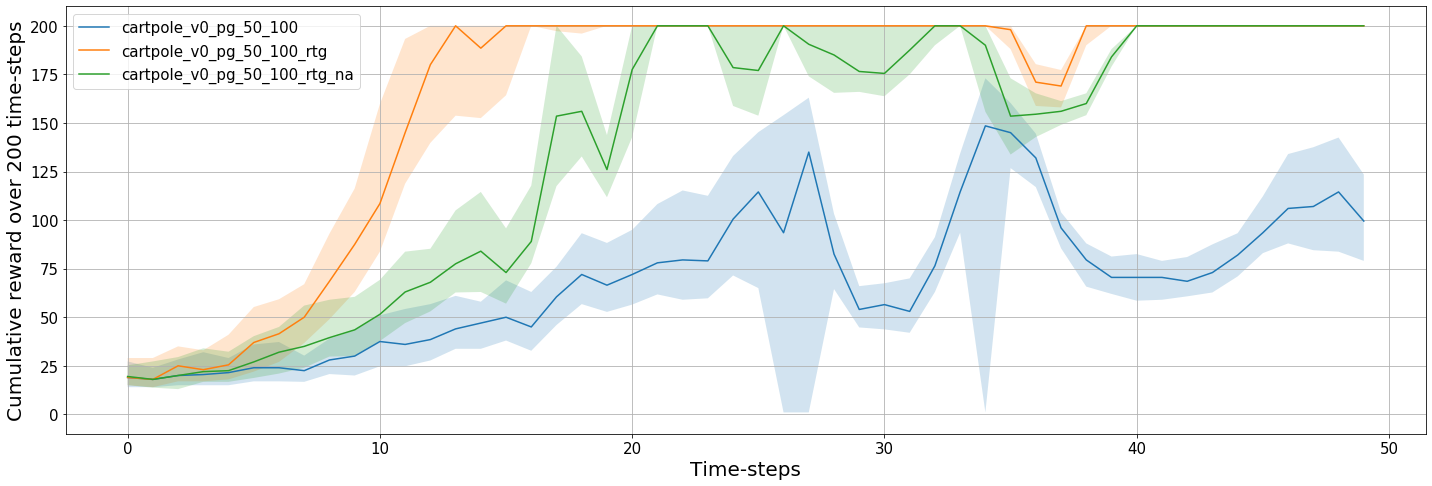
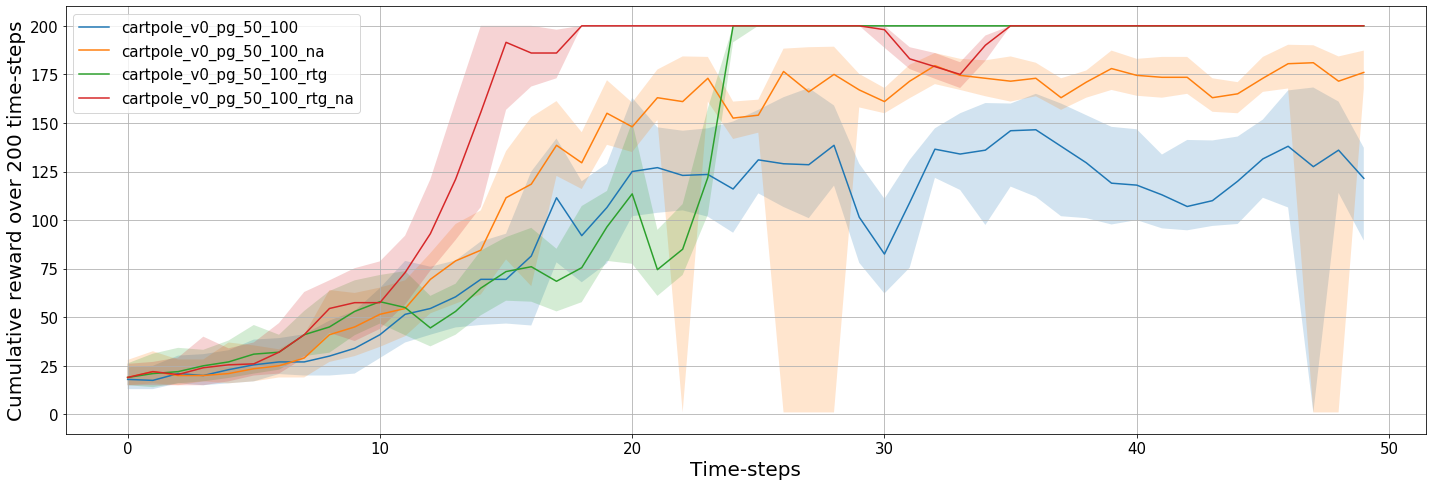
changed figures to pg

diff --git a/_posts/policy_gradient/2020-06-23-policy-gradient.md b/_posts/policy_gradient/2020-06-23-policy-gradient.md
@@ -124,7 +124,7 @@ Notes:
     - Compute $$\nabla_{\theta}J(\theta)$$ by using its MC gradient estimate rule in the table above.
     - $$\theta_{\text{new}} \leftarrow \theta_{\text{old}} + \alpha \nabla_{\theta}J(\theta)$$. (A more advanced optimizer can be used in practice.)
 
-## Variants of vanilla REINFORCE
+## Variants of vanilla policy gradient
 
 Reference: answer by Jerry Liu: [Why does the policy gradient method have a high variance?](https://www.quora.com/Why-does-the-policy-gradient-method-have-a-high-variance)
 
@@ -251,7 +251,21 @@ TODO
 
 ## Experimental results
 
+### Cumulative reward over time
+
 <img src='https://raw.githubusercontent.com/zhihanyang2022/deeprl_notes_site/master/_posts/policy_gradient/learning_curve.png'>
+
+Legend:
+
+- rtg: reward-to-go
+- na: simple baseline (normalized advantages)
+
+Observations:
+
+- na seems to determine the rate of convergence initially (na $$\to$$ high rate of convergence initially).
+- rtg seems to determine whether a variant actually converges (rtg $$\to$$ convergence eventually reached).
+
+### Trajectory sampled under optimal policy
 
 <img src='https://raw.githubusercontent.com/zhihanyang2022/deeprl_notes_site/master/_posts/policy_gradient/trajectory_under_learned_policy.png'>
 
